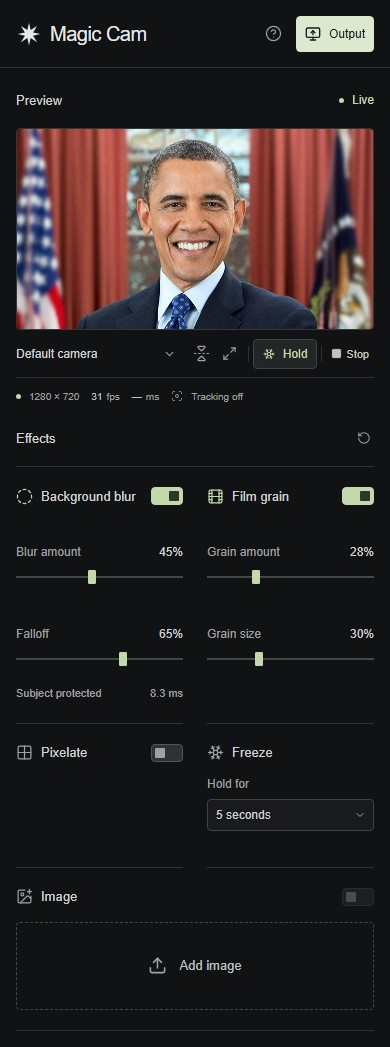
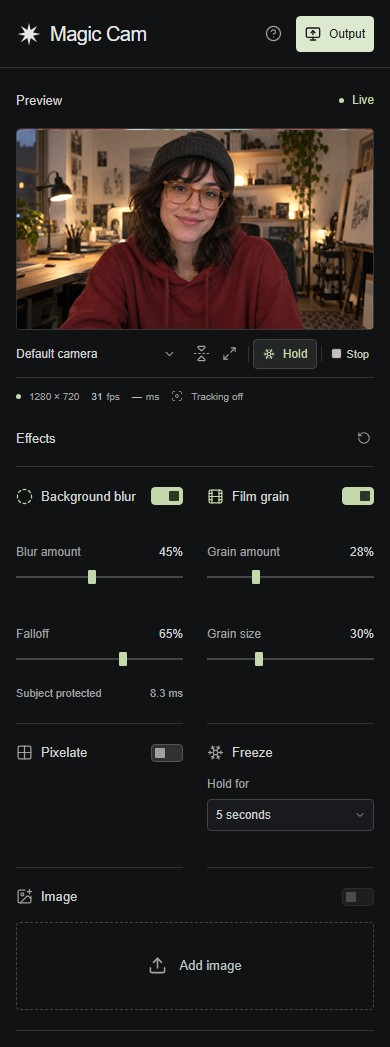
Replace README portrait fixture

Changed region(s): [[0.0308, 0.1223, 0.9538, 0.3362]]

diff --git a/README.md b/README.md
@@ -95,4 +95,4 @@ A physical webcam and OBS still need a manual pass for permissions, device switc
 
 ## MediaPipe assets
 
-MediaPipe Tasks Vision is pinned to `0.10.32`; the Pages test verifies the local-only runtime path. The app uses Google's [Face Landmarker](https://developers.google.com/edge/mediapipe/solutions/vision/face_landmarker/web_js) and [Image Segmenter](https://developers.google.com/edge/mediapipe/solutions/vision/image_segmenter/web_js) models. The screenshots use MediaPipe's public portrait test fixture.
+MediaPipe Tasks Vision is pinned to `0.10.32`; the Pages test verifies the local-only runtime path. The app uses Google's [Face Landmarker](https://developers.google.com/edge/mediapipe/solutions/vision/face_landmarker/web_js) and [Image Segmenter](https://developers.google.com/edge/mediapipe/solutions/vision/image_segmenter/web_js) models. The screenshots use a fictional portrait created for this repository.
